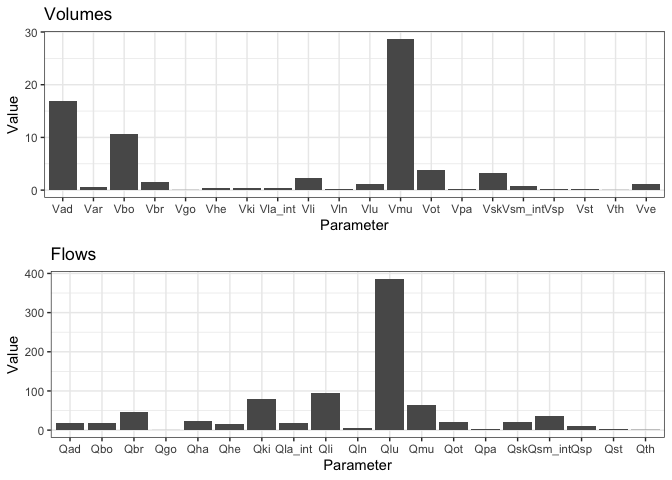
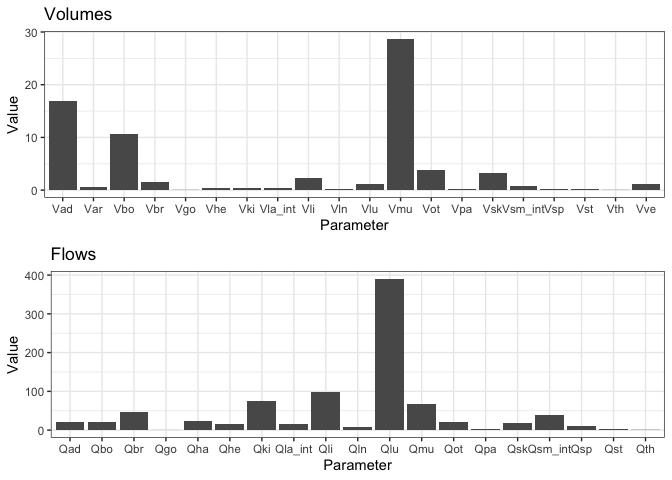
update readme

diff --git a/README.md b/README.md
@@ -34,8 +34,8 @@ different organs using one of five different calculation methods:
   - pksim: PK-Sim
     ([source](https://www.tandfonline.com/doi/abs/10.1517/17425255.1.1.159)).
 
-The function uses the unified tissue composition data reported in
-<https://dmd.aspetjournals.org/content/48/10/903>
+The function uses the unified tissue composition data reported
+[here](https://dmd.aspetjournals.org/content/48/10/903)
 
 ``` r
 # define molecule's physicochemical properties
@@ -253,23 +253,23 @@ summary(df_popPars[,1:11])
 ```
 
     .        ID             SEX            BW              HT             BMI       
-    .  Min.   : 1.00   Min.   :1.0   Min.   :52.89   Min.   :1.518   Min.   :19.21  
-    .  1st Qu.:10.75   1st Qu.:1.0   1st Qu.:66.01   1st Qu.:1.618   1st Qu.:22.87  
-    .  Median :20.50   Median :1.5   Median :79.66   Median :1.689   Median :26.23  
-    .  Mean   :20.50   Mean   :1.5   Mean   :76.91   Mean   :1.690   Mean   :26.99  
-    .  3rd Qu.:30.25   3rd Qu.:2.0   3rd Qu.:84.35   3rd Qu.:1.751   3rd Qu.:30.69  
-    .  Max.   :40.00   Max.   :2.0   Max.   :97.84   Max.   :1.891   Max.   :34.88  
+    .  Min.   : 1.00   Min.   :1.0   Min.   :50.35   Min.   :1.511   Min.   :20.15  
+    .  1st Qu.:10.75   1st Qu.:1.0   1st Qu.:65.66   1st Qu.:1.580   1st Qu.:23.58  
+    .  Median :20.50   Median :1.5   Median :74.81   Median :1.669   Median :26.50  
+    .  Mean   :20.50   Mean   :1.5   Mean   :74.18   Mean   :1.659   Mean   :27.09  
+    .  3rd Qu.:30.25   3rd Qu.:2.0   3rd Qu.:80.77   3rd Qu.:1.729   3rd Qu.:29.90  
+    .  Max.   :40.00   Max.   :2.0   Max.   :99.06   Max.   :1.815   Max.   :38.49  
     .     V_Heart           V_Lung          V_Muscle         V_Skin     
-    .  Min.   :0.2408   Min.   :0.6920   Min.   :16.61   Min.   :1.653  
-    .  1st Qu.:0.2606   1st Qu.:0.7514   1st Qu.:17.47   1st Qu.:1.897  
-    .  Median :0.3094   Median :0.9923   Median :22.75   Median :2.589  
-    .  Mean   :0.3180   Mean   :0.9802   Mean   :23.20   Mean   :2.652  
-    .  3rd Qu.:0.3722   3rd Qu.:1.1643   3rd Qu.:29.07   3rd Qu.:3.303  
-    .  Max.   :0.4072   Max.   :1.2535   Max.   :29.93   Max.   :3.887  
+    .  Min.   :0.2420   Min.   :0.6780   Min.   :16.68   Min.   :1.622  
+    .  1st Qu.:0.2646   1st Qu.:0.7832   1st Qu.:17.64   1st Qu.:1.979  
+    .  Median :0.3045   Median :0.9780   Median :22.34   Median :2.485  
+    .  Mean   :0.3120   Mean   :0.9622   Mean   :23.11   Mean   :2.553  
+    .  3rd Qu.:0.3658   3rd Qu.:1.1479   3rd Qu.:28.91   3rd Qu.:3.185  
+    .  Max.   :0.3931   Max.   :1.2183   Max.   :29.83   Max.   :3.606  
     .    V_Adipose          V_Bone      
-    .  Min.   : 8.462   Min.   : 6.891  
-    .  1st Qu.:19.919   1st Qu.: 7.672  
-    .  Median :25.223   Median : 8.784  
-    .  Mean   :28.862   Mean   : 9.151  
-    .  3rd Qu.:39.408   3rd Qu.:10.515  
-    .  Max.   :55.480   Max.   :12.562
+    .  Min.   : 7.406   Min.   : 6.528  
+    .  1st Qu.:18.867   1st Qu.: 7.420  
+    .  Median :23.761   Median : 8.648  
+    .  Mean   :26.872   Mean   : 8.783  
+    .  3rd Qu.:35.088   3rd Qu.:10.250  
+    .  Max.   :58.192   Max.   :11.436
